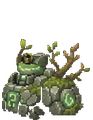
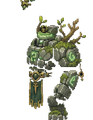
fix(stone_golem): 单元格垫背景边距，修复暗身体贴边被当背景删导致只剩头
- v2 连通性抠图从格边界洪水(T=70)，但石像在源格里顶满格子(脚/臂贴边)，
  身体暗部(距背景~40-90)连到边界->被当背景透明，只剩较亮被包围的头部('只剩一个头')
- slice_sheet 改为每个单元格先垫 PAD=40px 背景边距再抠图：石像永不直接贴边，
  暗身体被背景包围->保留；贴边暗雾仍连到背景->照删。keep_main_components 保留头+身体(若断开)
- 内容高度恢复 94-120px(占满画布)，refH 182->272；idle_01/attack_04 无大洞，
  其余洞均为腿缝/臂身窄缝等合法负空间
- 回归 verify_stone_golem_anim 46/0；npm run check 89/89

diff --git a/devtools/slice_dark_sheet.py b/devtools/slice_dark_sheet.py
@@ -240,26 +240,87 @@ def fill_holes(opaque):
     return out
 
 
+def keep_main_components(opaque, min_ratio=0.2):
+    """保留所有面积 >= 最大块 min_ratio 倍的连通块（删标签碎块，但头+身体若断开都留）。"""
+    H, W = opaque.shape
+    lab = np.zeros((H, W), dtype=np.int32)
+    parent = [0]
+    ys, xs = np.where(opaque)
+    if len(ys) == 0:
+        return opaque
+
+    def find(x):
+        while parent[x] != x:
+            parent[x] = parent[parent[x]]
+            x = parent[x]
+        return x
+
+    def union(a, b):
+        ra, rb = find(a), find(b)
+        if ra != rb:
+            parent[ra] = rb
+
+    nxt = 1
+    for y, x in zip(ys, xs):
+        nb = []
+        if x > 0 and opaque[y, x - 1]:
+            nb.append(lab[y, x - 1])
+        if y > 0 and opaque[y - 1, x]:
+            nb.append(lab[y - 1, x])
+        if not nb:
+            lab[y, x] = nxt
+            parent.append(nxt)
+            nxt += 1
+        else:
+            r = min(nb)
+            lab[y, x] = r
+            for v in nb:
+                union(r, v)
+    sizes = {}
+    for y, x in zip(ys, xs):
+        rv = find(lab[y, x])
+        sizes[rv] = sizes.get(rv, 0) + 1
+    if not sizes:
+        return opaque
+    mx = max(sizes.values())
+    keep = {rv for rv, sz in sizes.items() if sz >= min_ratio * mx}
+    out = np.zeros((H, W), bool)
+    for y, x in zip(ys, xs):
+        if find(lab[y, x]) in keep:
+            out[y, x] = True
+    return out
+
+
 def slice_sheet(src_path, target):
     a = np.array(Image.open(src_path).convert('RGBA'))
     bg = bg_of(a)
     cells = segment_cells(a, bg)
     results = []
+    PAD = 40  # 给单元格垫一圈背景边距，使石像永不直接贴边（避免暗身体被当背景删、只剩头）
     for (y0, y1, x0, x1) in cells:
         crop = a[y0:y1 + 1, x0:x1 + 1].copy()
         cbg = bg_of(crop)
-        opaque = key_opaque(crop, cbg)
-        opaque = largest_component(opaque)
-        opaque = fill_holes(opaque)  # 连通性抠图后再补一次内部洞（双保险）
+        Hc, Wc = crop.shape[:2]
+        padded = np.zeros((Hc + 2 * PAD, Wc + 2 * PAD, 4), dtype=np.uint8)
+        padded[:, :, :3] = cbg
+        padded[:, :, 3] = 255
+        padded[PAD:PAD + Hc, PAD:PAD + Wc] = crop
+        opaque = key_opaque(padded, cbg)
+        opaque = keep_main_components(opaque)  # 头+身体若断开都留，只删标签碎块
+        opaque = fill_holes(opaque)
         if opaque.sum() < 800:
             continue
         ys, xs = np.where(opaque)
-        bx0, bx1, by0, by1 = xs.min(), xs.max(), ys.min(), ys.max()
+        # bbox 在 padded 坐标 -> 映射回 crop 坐标
+        bx0, bx1 = xs.min() - PAD, xs.max() - PAD
+        by0, by1 = ys.min() - PAD, ys.max() - PAD
+        bx0, bx1 = max(0, bx0), min(Wc - 1, bx1)
+        by0, by1 = max(0, by0), min(Hc - 1, by1)
         bw, bh = bx1 - bx0 + 1, by1 - by0 + 1
         if bw < 50 or bh < 90:  # 剔除标签条/地面线/竖线碎片
             continue
         sub = crop[by0:by1 + 1, bx0:bx1 + 1].copy()
-        sm = opaque[by0:by1 + 1, bx0:bx1 + 1]
+        sm = opaque[by0 + PAD:by1 + PAD + 1, bx0 + PAD:bx1 + PAD + 1]
         sub[~sm, 3] = 0
         results.append((sub, bw, bh))
     return results
